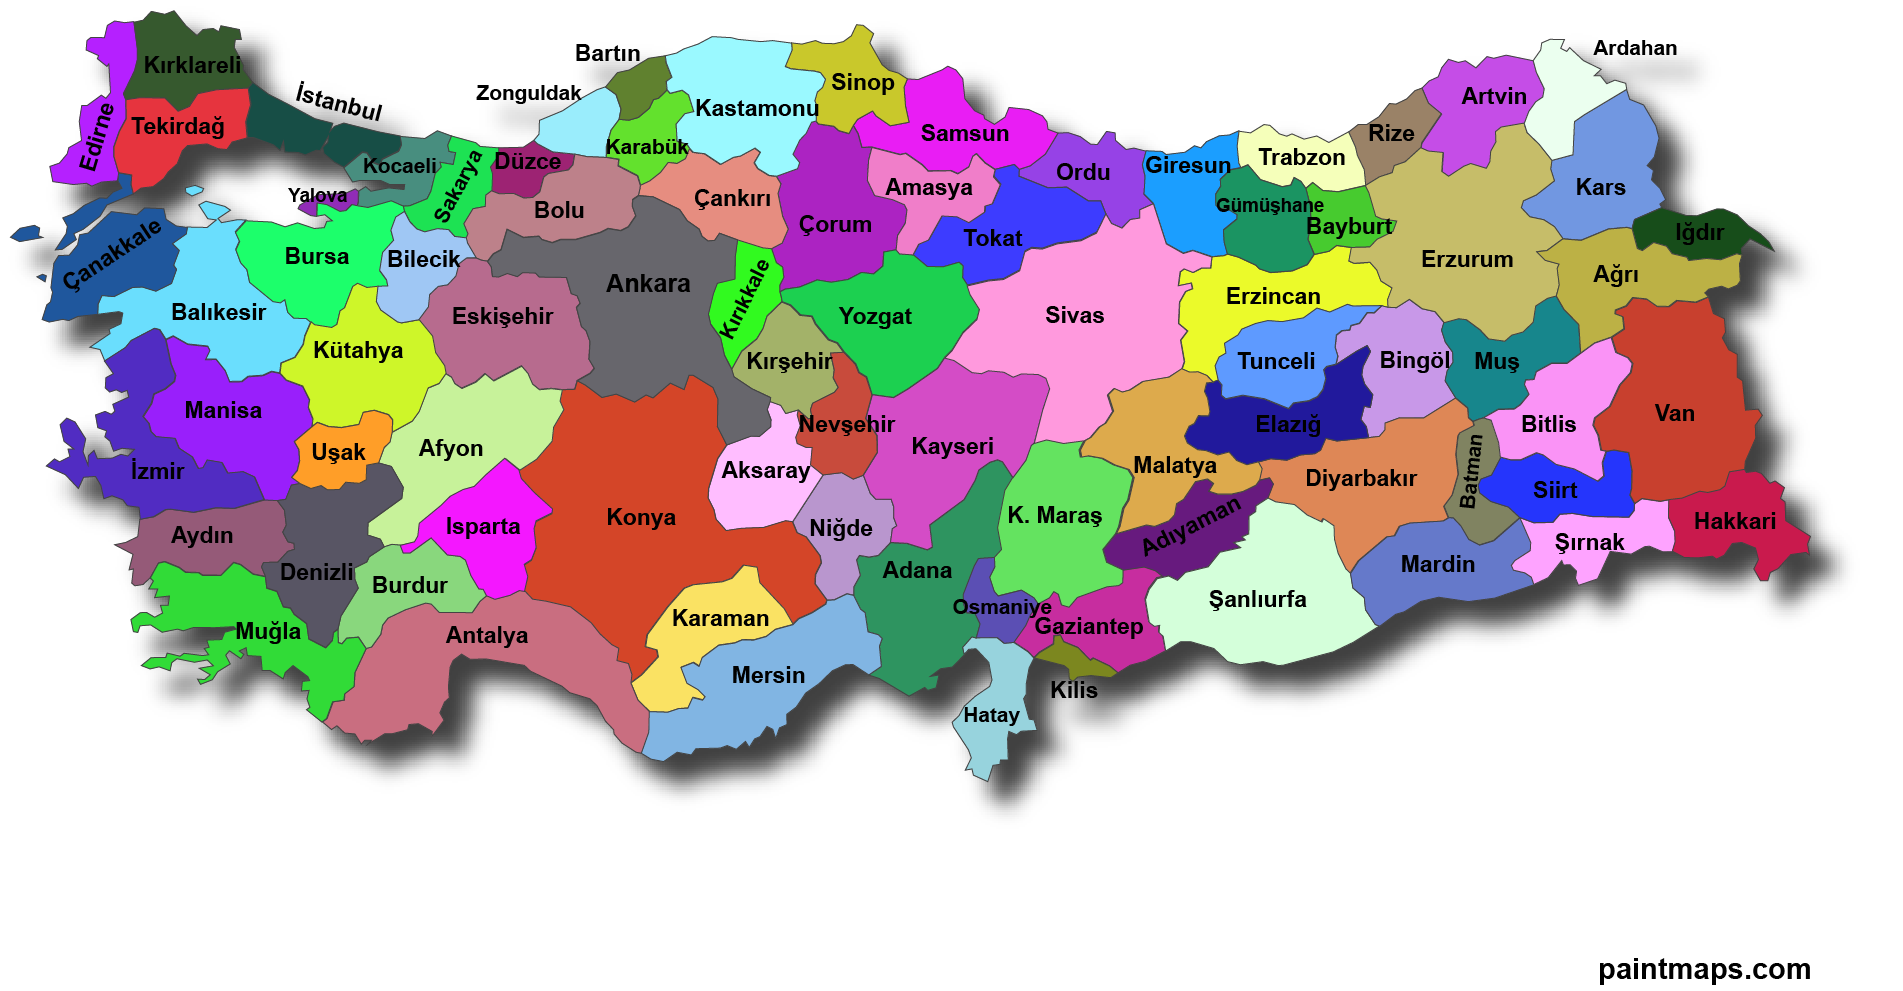
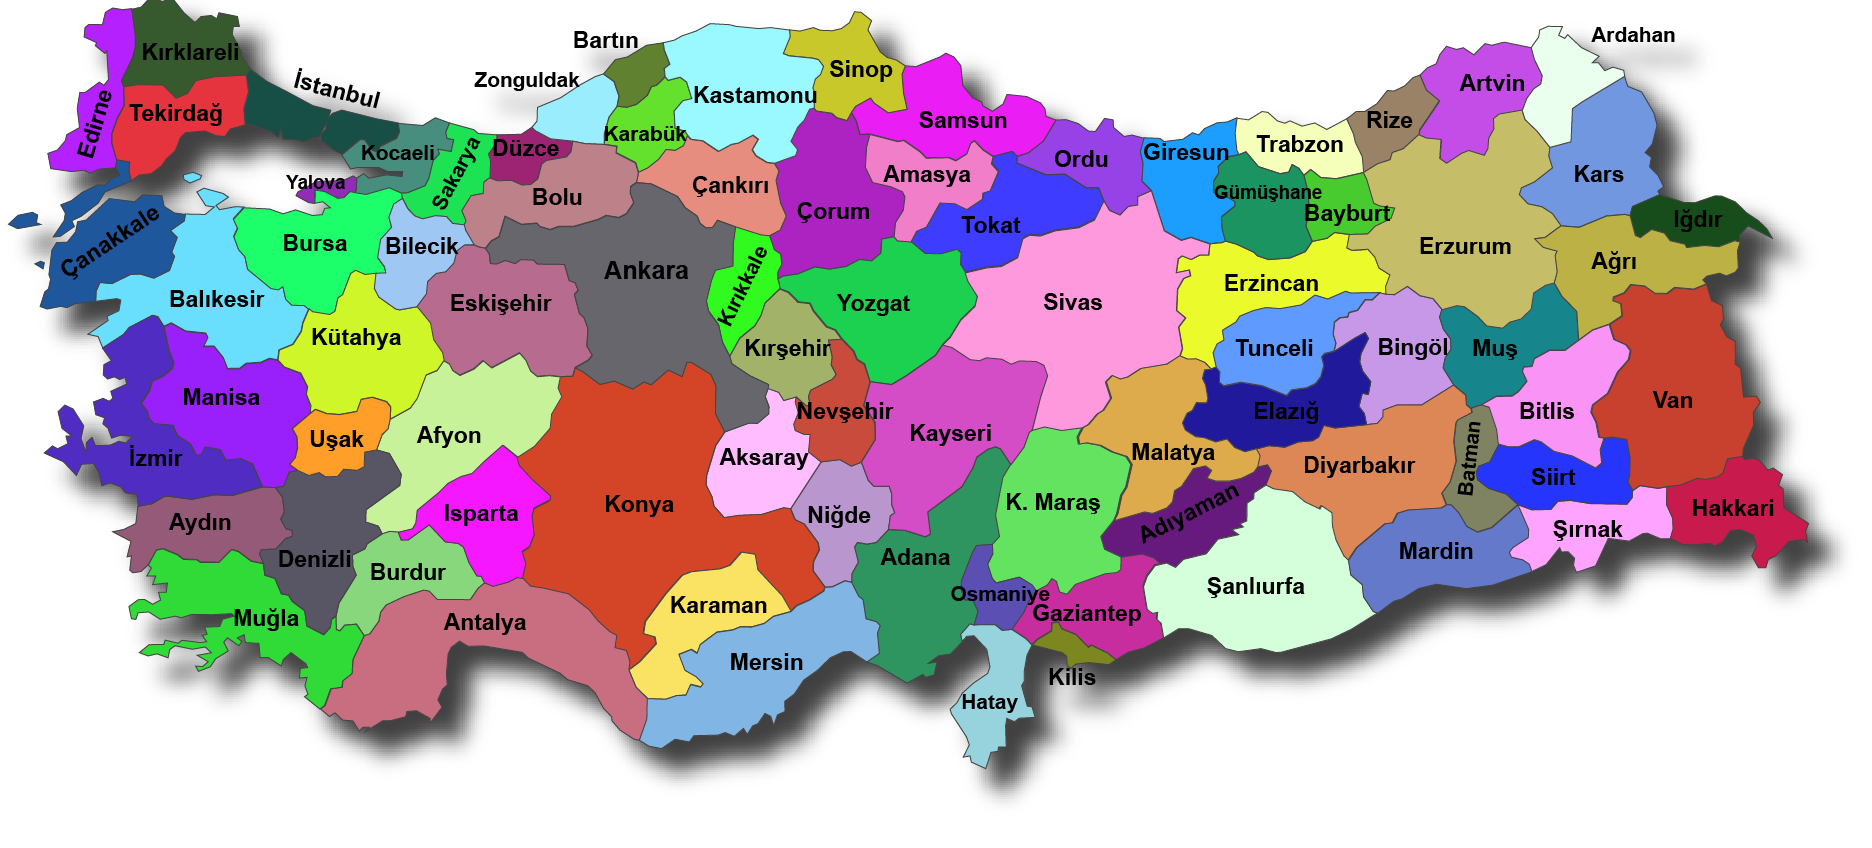
divlerin yeri düzenlendi fotoğraf bilgileri bitmed

diff --git a/project/Turkiye.html b/project/Turkiye.html
@@ -11,7 +11,7 @@
     <link rel="stylesheet" href="css/color_theme.css">
     <title>AKILLI TARIM | Türkiye</title>
 </head>
-<body>
+<body style="background-color: #a9c7a8;">
     
     <nav class="navbar navbar-expand-md navbar-light fixed-top navbararkaplan ">
         <div class="container ">
@@ -56,26 +56,120 @@
         </div>
     </nav>
 
-    <div id="map" style="text-align: center;">
+    <div id="map">
         <img id="map_png" src="images/Türkiye.png" alt="Türkiye_map">
     </div>
+    -
 
     <div id="bolgeler">
+      <div class="overlay">
+        <p>Lorem ipsum dolor sit amet consectetur adipisicing elit. Eum eos consectetur ab eius quaerat nihil est, alias nisi consequuntur aut totam omnis asperiores dolorum sit magni vitae non repudiandae ipsam?</p>
+      </div>
         <h4 id="karadeniz_header">Karadeniz</h4>
         <img id="bolgeler_Karadeniz_png" class="bolgeler_png" src="images/black_Sea_region.png" alt="Karadeniz_Bölgesi">
+        <div class="overlay">
+          <p>Lorem ipsum dolor sit amet consectetur adipisicing elit. Eum eos consectetur ab eius quaerat nihil est, alias nisi consequuntur aut totam omnis asperiores dolorum sit magni vitae non repudiandae ipsam?</p>
+        </div>
         <h4 id="Akdeniz_header">Akdeniz</h4>
         <img id="bolgeler_Akdeniz_png" class="bolgeler_png" src="images/licensed-image.jfif" alt="Akdeniz_Bölgesi">
+        <div class="overlay">
+          <p>Lorem ipsum dolor sit amet consectetur adipisicing elit. Eum eos consectetur ab eius quaerat nihil est, alias nisi consequuntur aut totam omnis asperiores dolorum sit magni vitae non repudiandae ipsam?</p>
+        </div>
         <h4 id="Ege_header">Ege</h4>
         <img id="bolgeler_Ege_png" class="bolgeler_png" src="images/ege_bolgesi.jpg" alt="ege_bolgesi">
+        <div class="overlay">
+          <p>Lorem ipsum dolor sit amet consectetur adipisicing elit. Eum eos consectetur ab eius quaerat nihil est, alias nisi consequuntur aut totam omnis asperiores dolorum sit magni vitae non repudiandae ipsam?</p>
+        </div>
         <h4 id="Marmara_header">Marmara</h4>
         <img id="bolgeler_Marmara_png" class="bolgeler_png" src="images/tr-marmara-region.jpg" alt="Marmara_Bölgesi">
+        <div class="overlay">
+          <p>Lorem ipsum dolor sit amet consectetur adipisicing elit. Eum eos consectetur ab eius quaerat nihil est, alias nisi consequuntur aut totam omnis asperiores dolorum sit magni vitae non repudiandae ipsam?</p>
+        </div>
         <h4 id="İcAnadolu_header">İç Anadolu</h4>
         <img id="bolgeler_İcAnadolu_png" class="bolgeler_png" src="images/ic_anadolu_bolgesi.jpg" alt="İç_Anadolu_Bölgesi">
+        <div class="overlay">
+        <p>Lorem ipsum dolor sit amet consectetur adipisicing elit. Eum eos consectetur ab eius quaerat nihil est, alias nisi consequuntur aut totam omnis asperiores dolorum sit magni vitae non repudiandae ipsam?</p>
+      </div>
         <h4 id="DoguAnadolu_header">Doğu Anadolu</h4>
         <img id="bolgeler_DoguAnadolu_png" class="bolgeler_png" src="images/dogu_anadolu_bolgesi.jpg" alt="Doğu_Anadolu_Bölgesi">
+        <div class="overlay">
+          <p>Lorem ipsum dolor sit amet consectetur adipisicing elit. Eum eos consectetur ab eius quaerat nihil est, alias nisi consequuntur aut totam omnis asperiores dolorum sit magni vitae non repudiandae ipsam?</p>
+        </div>
         <h4 id="GuneyDoguAnadolu_header">Güney Doğu Anadolu</h4>
         <img id="bolgeler_GuneyDoguAnadolu_png" src="images/guneydogu_anadolu_bolgesi.jpg" alt="Güney_Doğu_Anadolu_Bölgesi">
     </div>
+
+    <div class="navbararkaplan ">
+      
+      <footer class="container py-5 mt-5">
+
+        <div class="row">
+
+          <div class="col-6 col-md">
+
+            <h4>İçerik</h4>
+
+            <ul class="list-unstyled text-small">
+
+              <li><a class="footerrr " href="anasayfa.html">Anasayfa</a></li>
+
+              <li><a class="footerrr" href="hakkımızda.html">Hakkımızda</a></li>
+
+              <li><a class="footerrr" href="hakkımızda.html">Türkiye</a></li>
+
+              <li><a class="footerrr" href="iletisim.html">İletişim</a></li>
+
+              <li><a class="footerrr" href="iletisim.html">Kullanıcı Giriş</a></li>
+
+              <li><a class="footerrr" href="iletisim.html">Kullanıcı Oluşturma</a></li>
+
+            </ul>
+
+          </div>
+
+          <div class="col-6 col-md">
+            <h4>Şehirler</h4>
+            <ul class="list-unstyled text-small">
+              <li><a class="footerrr" href="#">İstanbul</a></li>
+
+              <li><a class="footerrr" href="#">Ankara</a></li>
+
+              <li><a class="footerrr" href="#">İzmir</a></li>
+
+              <li><a class="footerrr" href="#">Antalya</a></li>
+
+              <li><a class="footerrr" href="#">Sivas</a></li>
+
+              <li><a class="footerrr" href="#">Hatay</a></li>
+
+            </ul>
+          </div>
+
+          <div class="col-6 col-md">
+
+              <h4>Şehirler</h4>
+
+              <ul class="list-unstyled text-small">
+
+                <li><a class="footerrr" href="#">Malatya</a></li>
+
+                <li><a class="footerrr" href="#">Muğla</a></li>
+
+                <li><a class="footerrr" href="#">Trabzon</a></li>
+                
+                <li><a class="footerrr" href="#">Bursa</a></li>  
+
+                <li><a class="footerrr" href="#">Diyarbakır</a></li>
+
+                <li><a class="footerrr" href="#">Samsun</a></li>
+
+              </ul>
+            </div>
+  
+        </div>
+      </footer>
+      
+  </div>
 
 </body>
 </html>

diff --git a/project/css/style.css b/project/css/style.css
@@ -203,15 +203,16 @@
 
 #map{
     position: relative;
-    margin-bottom: 150px;
-    margin-left: 200px;
+    text-align: center;
 }
 
 #map_png{
+    margin-top: 100px;
     position: absolute;
+    text-align: center;
     top: 0;
     left: 0;
-    width: 1000px;
+    width: 1100px;
     height: 500px;
     object-fit: cover;
 }
@@ -219,8 +220,8 @@
 #bolgeler{
     position: relative;
     display: flex;
-    margin-top: 150px;
-    margin-left: 200px;
+    text-align: center;
+    margin-bottom: 300px;
 }
 
 .bolgeler_png{
@@ -311,3 +312,29 @@
     margin-left: -400px;
 }
 
+.overlay{
+    position: absolute;
+    top: 50%;
+    left: 50%;
+    transform: translate(-50%, -50%);
+    background-color: rgba(255, 255, 255, 0.8);
+    width: 200px;
+    height: 350px;
+    visibility: hidden;
+    opacity: 0;
+    transition: visibility 0s, opacity 0.5s;
+    border-radius: 50px;
+}
+
+#bolgeler:hover .overlay{
+    visibility: visible;
+    opacity: 0.3;
+}
+
+#bolgeler:hover img{
+    opacity: 0.7;
+}
+
+#bolgeler img{
+    transition: opacity 0.5s;
+  }
